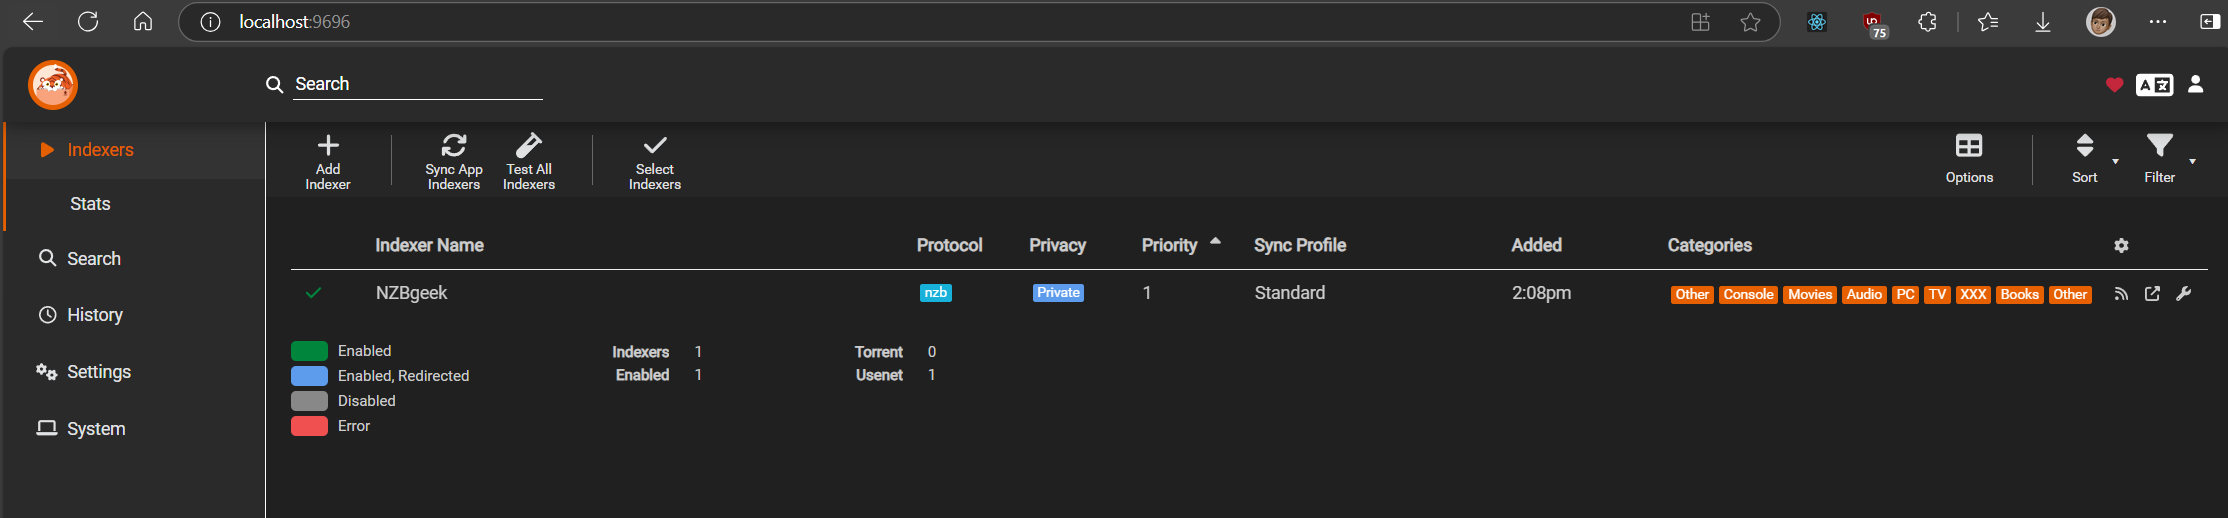
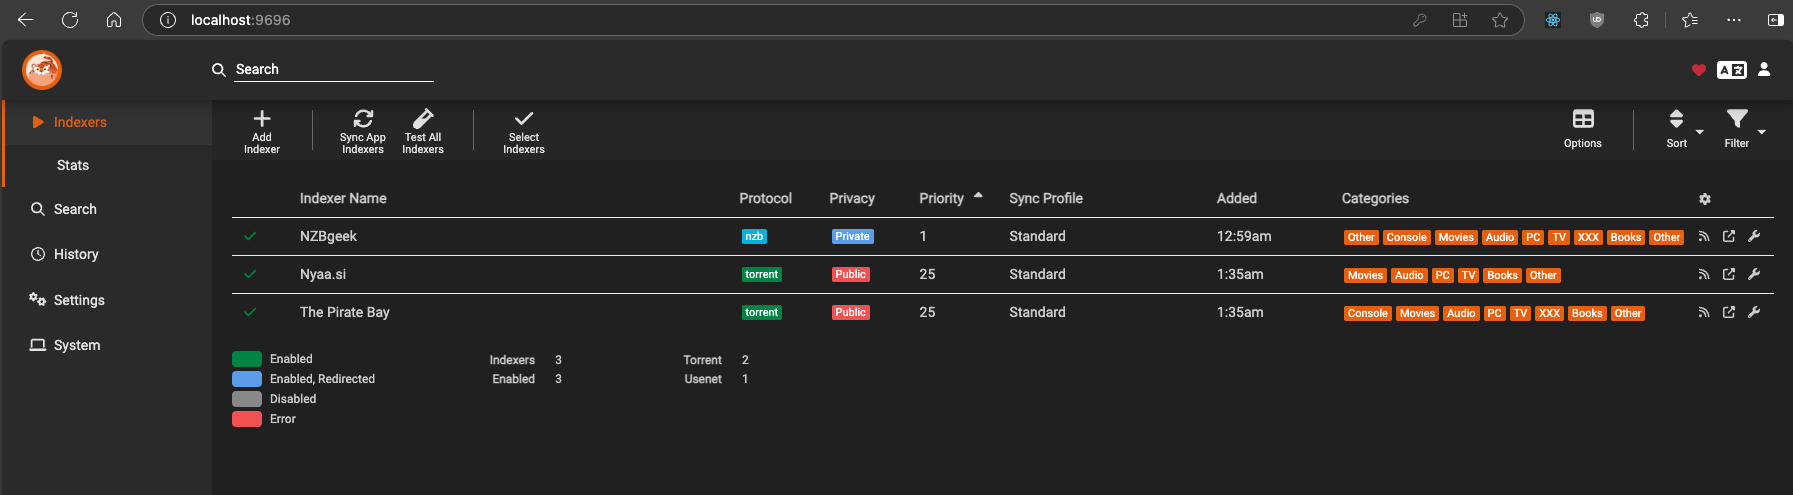
Torrent integration (#11)
* Update docker-compose.yaml

* Update services.yaml

* Add torrent/deluge setup instruction

diff --git a/README.md b/README.md
@@ -62,7 +62,8 @@ Downloading copyrighted material is illegal. However, downloading content that i
    - Radarr: `http://localhost:7878`
    - Sonarr: `http://localhost:8989`
    - Prowlarr: `http://localhost:9696`
-   - Sabnzbd: `http://localhost:8080`
+   - Sabnzbd (Usenet downloader): `http://localhost:8080`
+   - Deluge (Torrent downloader): `http://localhost:8112`
    - Homepage: `http://localhost:3000`
 
 ---
@@ -101,14 +102,26 @@ Downloading copyrighted material is illegal. However, downloading content that i
 
 ---
 
+## Set up Deluge (Optional - For torrent downloads only)
+
+1. Open web browser and navigate to `http://localhost:8112`
+2. Login using the default password: `deluge`.
+3. A pop-up will appear asking you to connect to the daemon. Press `Connect`.
+
 ## Set up Radarr
 
 1. Open web browser and navigate to `http://localhost:7878`
 2. Navigate to `Settings -> Media Management` and add root folders for movies: `/movies`
-3. Navigate to `Settings -> Download Client` and add Sabnzbd with the following configurations:
-   - Add API key from Sabnzbd configuration
-   - Categories: `radarr`
-   - Tags: Leave blank
+3. Navigate to `Settings -> Download Client`. 
+   - Add Sabnzbd with the following configurations:
+      - Add API key from Sabnzbd configuration
+      - Categories: `radarr`
+      - Tags: Leave blank
+   - Add Deluge with the following configurations:
+      - Host: deluge
+      - Port: 8112
+      - Password: deluge
+      - Category: leave blank
 4. Navigate to `Settings -> General` to get the API key for Radarr and save it for setting up Prowlarr
 
 ---
@@ -117,10 +130,16 @@ Downloading copyrighted material is illegal. However, downloading content that i
 
 1. Open web browser and navigate to `http://localhost:8989`
 2. Navigate to `Settings -> Media Management` and add root folders for TV shows: `/tv`
-3. Navigate to `Settings -> Download Client` and add Sabnzbd with the following configurations:
-   - Category: `sonarr`
-   - Add API key from Sabnzbd configuration
-   - Tags: Leave blank
+3. Navigate to `Settings -> Download Client`.
+   - Sabnzbd with the following configurations:
+      - Add API key from Sabnzbd configuration
+      - Category: `sonarr`
+      - Tags: Leave blank
+   - Add Deluge with the following configurations:
+      - Host: deluge
+      - Port: 8112
+      - Password: deluge
+      - Category: leave blank
 4. Navigate to `Settings -> General` to get the API key for Sonarr and save it for setting up Prowlarr
 
 ---
@@ -145,7 +164,10 @@ Downloading copyrighted material is illegal. However, downloading content that i
      - Sonarr Server: `http://sonarr:8989`
      - API Key: API key from Sonarr
      - Press `Test` to check if the connection is successful and press `Save`
-3. Navigate to `Indexers` and add your preferred indexers. In my case, I have added NZBGeek.
+3. Navigate to `Indexers` and add your preferred indexers. In my case, I have added NZBGeek for Usenet and ThePirateBay and Nyaa for torrents. See the screenshots below for reference:
+
+   ![Indexers](/screenshots/prowlarr/indexers.png)
+
 4. To verify that the indexers are synced with Radarr and Sonarr, go to `Settings -> Indexers` in both services. You should see the indexers you added in Prowlarr listed there. See the screenshots below for reference:
 
    ![Radarr_Prowlarr](/screenshots/prowlarr/radarr_prowlarr.png)
@@ -234,4 +256,8 @@ Downloading copyrighted material is illegal. However, downloading content that i
   ### Sabnzbd
 
   ![Sabnzbd](/screenshots/sabnzbd.png)
+
+   ### Deluge
+
+   ![Deluge](/screenshots/deluge.png)
 </details>
